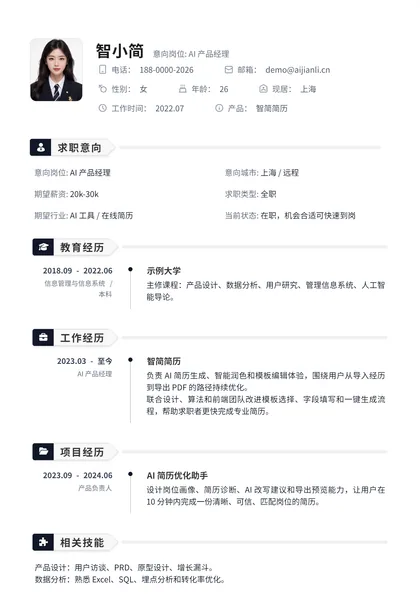
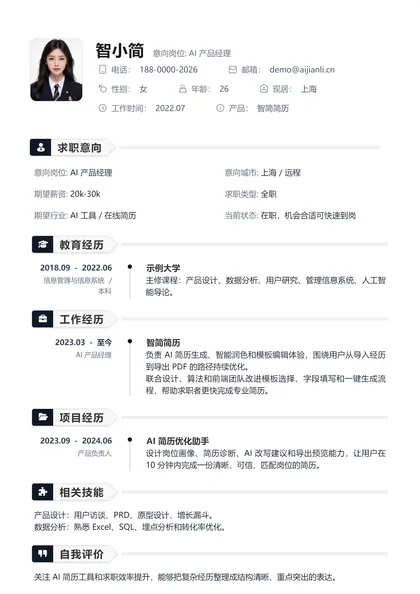
fix: normalize resume template spacing

diff --git a/src/templates/elegant/index.tsx b/src/templates/elegant/index.tsx
@@ -223,6 +223,7 @@ function ElegantHeader(props: {
               {fields.map((f) => (
                 <div
                   key={f.key}
+                  data-template-base-info-field="true"
                   className="flex items-center gap-2 text-white/80 relative group/field hover:bg-white/10 rounded pl-1 pr-5 py-0.5 transition-colors whitespace-nowrap text-[0.92em]"
                   onMouseEnter={() => setHoveredField(f.key)}
                   onMouseLeave={() => setHoveredField(null)}
@@ -290,6 +291,7 @@ function BlockRendererWrapper(props: {
   return (
     <div style={{ marginBottom: blockIndex < totalBlocks - 1 ? `${16 * spacingScale}px` : '0' }}>
       <BlockWrapper
+        flush
         blockType={blockTypeLabel}
         onAdd={block.type !== 'text' ? (): void => addBlock(sectionId) : undefined}
         onPolish={moduleType ? (): void => openPolish(block.id, extractBlockContentHtml(block), moduleType) : undefined}
@@ -342,10 +344,7 @@ export default function ElegantTemplate(props: ElegantTemplateProps): ReactEleme
       <div
         className="resume-body-content elegant-body-content print:!pb-0"
         data-template-padding-probe="true"
-        style={{ 
-          padding: bodyPadding,
-          paddingTop: `calc(${theme.pagePaddingVertical}mm * ${theme.spacingScale})` 
-        }}
+        style={{ padding: bodyPadding }}
       >
         <DragDropProvider
           resume={resume}
@@ -357,7 +356,7 @@ export default function ElegantTemplate(props: ElegantTemplateProps): ReactEleme
             const section = resume.sections.find((s) => s.id === sectionId)
             if (!section) return null
             return (
-              <SectionContainer themeColor={accentColor}>
+              <SectionContainer flush themeColor={accentColor}>
                 <SectionHeader
                   sectionId={section.id}
                   title={section.title}
@@ -454,7 +453,7 @@ function ElegantSectionView(props: ElegantSectionViewProps): ReactElement {
   const icon = getSectionIcon(title)
 
   return (
-    <SectionContainer themeColor={themeColor}>
+    <SectionContainer flush themeColor={themeColor}>
       {/* Section header with gold underline */}
       <div
         className="relative pb-2 mb-3"

diff --git a/src/templates/timeline/index.tsx b/src/templates/timeline/index.tsx
@@ -65,6 +65,7 @@ function BlockRendererWrapper(props: BlockRendererWrapperProps): ReactElement {
   return (
     <div style={{ marginBottom: blockIndex < totalBlocks - 1 ? `${16 * spacingScale}px` : '0' }}>
       <BlockWrapper
+        flush
         blockType={blockTypeLabel}
         onAdd={block.type !== 'text' ? (): void => addBlock(sectionId) : undefined}
         onPolish={moduleType ? (): void => openPolish(block.id, extractBlockContentHtml(block), moduleType) : undefined}
@@ -193,7 +194,7 @@ function TimelineBlockRow(props: TimelineBlockRowProps): ReactElement {
         />
       </div>
       {/* Right column — block content */}
-      <div className="flex-1 min-w-0 pl-4 pb-1">
+      <div className="flex-1 min-w-0 pl-4">
         <BlockRendererWrapper
           block={block}
           sectionId={sectionId}
@@ -233,7 +234,7 @@ function SectionView(props: SectionViewProps): ReactElement {
   const { setNodeRef } = useDroppable({ id: `${DndIds.SECTION_DROP_ID_PREFIX}${sectionId}` })
   const icon = getSectionIcon(title)
   return (
-    <SectionContainer themeColor={themeColor}>
+    <SectionContainer flush themeColor={themeColor}>
       <SectionHeader
         sectionId={sectionId}
         title={title}
@@ -344,7 +345,7 @@ export default function TimelineTemplate(props: TimelineTemplateProps): ReactEle
           const section = resume.sections.find((s) => s.id === sectionId)
           if (!section) return null
           return (
-            <SectionContainer themeColor={theme.primaryColor}>
+            <SectionContainer flush themeColor={theme.primaryColor}>
               <SectionHeader
                 sectionId={section.id}
                 title={section.title}

diff --git a/src/templates/components/v2/section-container.tsx b/src/templates/components/v2/section-container.tsx
@@ -8,6 +8,8 @@ import type { ReactElement, ReactNode, CSSProperties } from 'react'
 interface SectionContainerProps {
   readonly children: ReactNode
   readonly themeColor: string
+  /** The template owns vertical spacing; hover decoration must not affect flow. */
+  readonly flush?: boolean
 }
 
 /**
@@ -15,19 +17,19 @@ interface SectionContainerProps {
  * All templates use the same hover behavior for consistency.
  */
 export default function SectionContainer(props: SectionContainerProps): ReactElement {
-  const { children, themeColor } = props
+  const { children, themeColor, flush = false } = props
   const [isHovered, setIsHovered] = useState(false)
 
   const baseClassName = [
-    'mb-1',
-    'p-1',
+    flush ? 'px-1 flow-root' : 'mb-1 p-1',
     'rounded-lg',
     'transition-all duration-200 group group/section-edit',
     isHovered ? 'shadow-sm' : '',
   ].filter(Boolean).join(' ')
 
   const dynamicStyle: CSSProperties = {
-    border: isHovered ? `1px solid ${themeColor}20` : '1px solid transparent',
+    border: flush ? undefined : isHovered ? `1px solid ${themeColor}20` : '1px solid transparent',
+    outline: flush && isHovered ? `1px solid ${themeColor}20` : undefined,
     background: isHovered ? 'rgba(249, 250, 251, 0.5)' : 'transparent',
   }
 

diff --git a/src/components/blocks/block-wrapper.tsx b/src/components/blocks/block-wrapper.tsx
@@ -21,6 +21,8 @@ export interface BlockWrapperProps {
   readonly dragHandleRef?: (element: HTMLElement | null) => void;
   readonly showDragHandle?: boolean;
   readonly disableHover?: boolean;
+  /** Disable legacy spacing when the template owns block and section gaps. */
+  readonly flush?: boolean;
 }
 
 const HOVER_DELAY_MS = 200;
@@ -29,7 +31,7 @@ const HOVER_POLL_MS = 500;
 export default function BlockWrapper(props: BlockWrapperProps): ReactElement {
   const readOnly = useAppStore((s) => s.readOnly);
   if (readOnly) {
-    return <div className="group/block relative rounded mb-4 last:mb-0 pb-1">{props.children}</div>;
+    return <div className={`group/block relative rounded ${props.flush ? 'flow-root' : 'mb-4 last:mb-0 pb-1'}`}>{props.children}</div>;
   }
   return <EditableBlockHoverWrapper {...props} />;
 }
@@ -75,7 +77,7 @@ function EditableBlockHoverWrapper(props: BlockWrapperProps): ReactElement {
   return (
     <div
       ref={containerRef}
-      className="group/block relative rounded mb-4 last:mb-0 pb-1"
+      className={`group/block relative rounded ${props.flush ? 'flow-root' : 'mb-4 last:mb-0 pb-1'}`}
       onMouseEnter={handleMouseEnter}
       onMouseLeave={handleMouseLeave}
     >

diff --git a/src/templates/simple/index.tsx b/src/templates/simple/index.tsx
@@ -81,6 +81,7 @@ function BlockRendererWrapper(props: {
   return (
     <div style={{ marginBottom: blockIndex < totalBlocks - 1 ? `${13 * spacingScale}px` : '0' }}>
       <BlockWrapper
+        flush
         blockType={blockTypeLabel}
         onAdd={block.type !== 'text' ? (): void => addBlock(sectionId) : undefined}
         onPolish={moduleType ? handlePolish : undefined}
@@ -182,7 +183,7 @@ export default function SimpleTemplate(props: SimpleTemplateProps): ReactElement
           const section = resume.sections.find((s) => s.id === sectionId)
           if (!section) return null
           return (
-            <SectionContainer themeColor={theme.primaryColor}>
+            <SectionContainer flush themeColor={theme.primaryColor}>
               <SectionHeader
                 sectionId={section.id}
                 title={section.title}
@@ -271,7 +272,7 @@ function SectionView(props: SectionViewProps): ReactElement {
   }
   
   return (
-    <SectionContainer themeColor={themeColor}>
+    <SectionContainer flush themeColor={themeColor}>
       <SectionHeader
         sectionId={sectionId}
         title={title}

diff --git a/src/templates/elegant/styles.ts b/src/templates/elegant/styles.ts
@@ -55,7 +55,7 @@ export const ELEGANT_TEMPLATE_STYLES: TemplateStylesConfig = {
   },
 
   jobIntention: {
-    container: 'py-3 relative group cursor-pointer print:cursor-default',
+    container: 'py-0 relative group cursor-pointer print:cursor-default',
     header: 'flex items-center gap-2.5 pb-2 mb-3 relative',
     headerBorderBottom: true,
     title: {
@@ -81,7 +81,7 @@ export const ELEGANT_TEMPLATE_STYLES: TemplateStylesConfig = {
   sectionHeader: {
     fontSize: '1.285em',
     fontWeight: 'bold',
-    containerClassName: 'pb-1',
+    containerClassName: 'pb-0',
     icon: {
       size: '1.5em',
     },
@@ -111,6 +111,6 @@ export const ELEGANT_TEMPLATE_STYLES: TemplateStylesConfig = {
       fontWeight: 'bold',
       className: 'text-gray-700 ml-4 shrink-0',
     },
-    content: 'text-[1em] text-gray-500 text-justify',
+    content: '!py-0 text-[1em] text-gray-500 text-justify',
   },
 }

diff --git a/src/templates/simple/styles.ts b/src/templates/simple/styles.ts
@@ -49,7 +49,7 @@ export const SIMPLE_TEMPLATE_STYLES: TemplateStylesConfig = {
   },
   
   jobIntention: {
-    container: 'py-3 relative group cursor-pointer print:cursor-default',
+    container: 'py-0 relative group cursor-pointer print:cursor-default',
     header: 'flex items-center gap-2.5 pb-0.5 relative',
     title: {
       className: 'font-bold',
@@ -109,7 +109,7 @@ export const SIMPLE_TEMPLATE_STYLES: TemplateStylesConfig = {
       fontWeight: 'bold',
       className: 'text-neutral-800 ml-3 shrink-0',
     },
-    content: 'text-[0.98em] text-justify mt-1',
+    content: '!py-0 text-[0.98em] text-justify mt-1',
     contentColor: '#555555',
   },
 }

diff --git a/src/templates/timeline/styles.ts b/src/templates/timeline/styles.ts
@@ -108,6 +108,6 @@ export const TIMELINE_TEMPLATE_STYLES: TemplateStylesConfig = {
       fontWeight: 'bold',
       className: 'hidden',
     },
-    content: 'text-[1em] text-gray-500 text-justify',
+    content: '!py-0 text-[1em] text-gray-500 text-justify',
   },
 }
